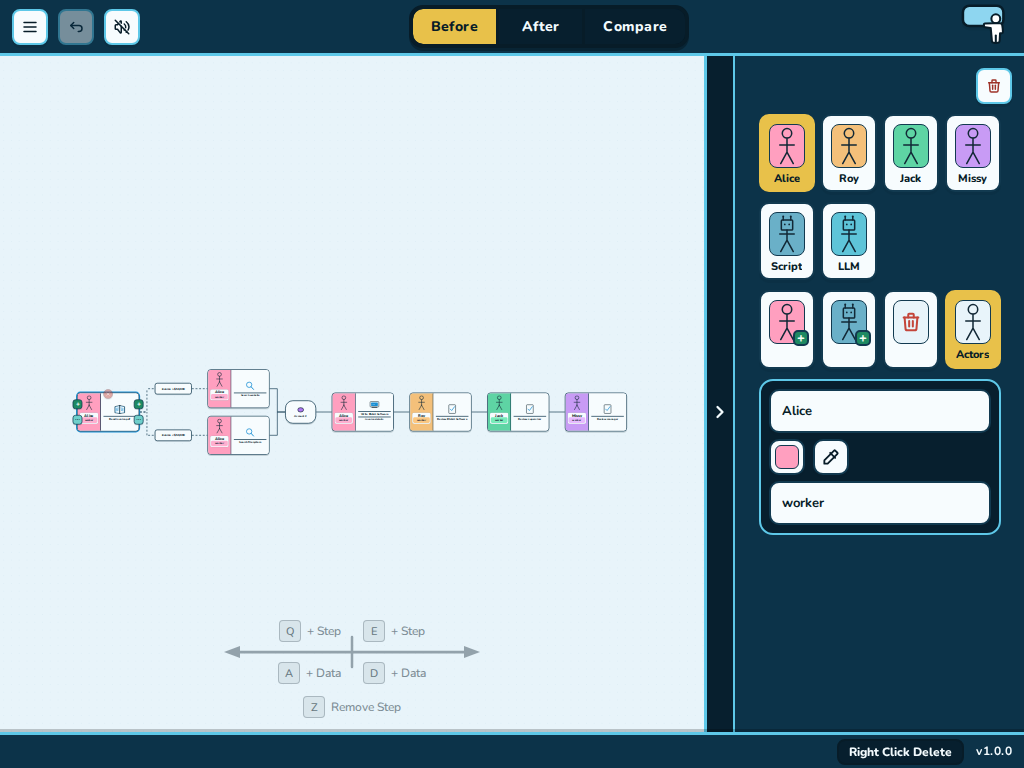
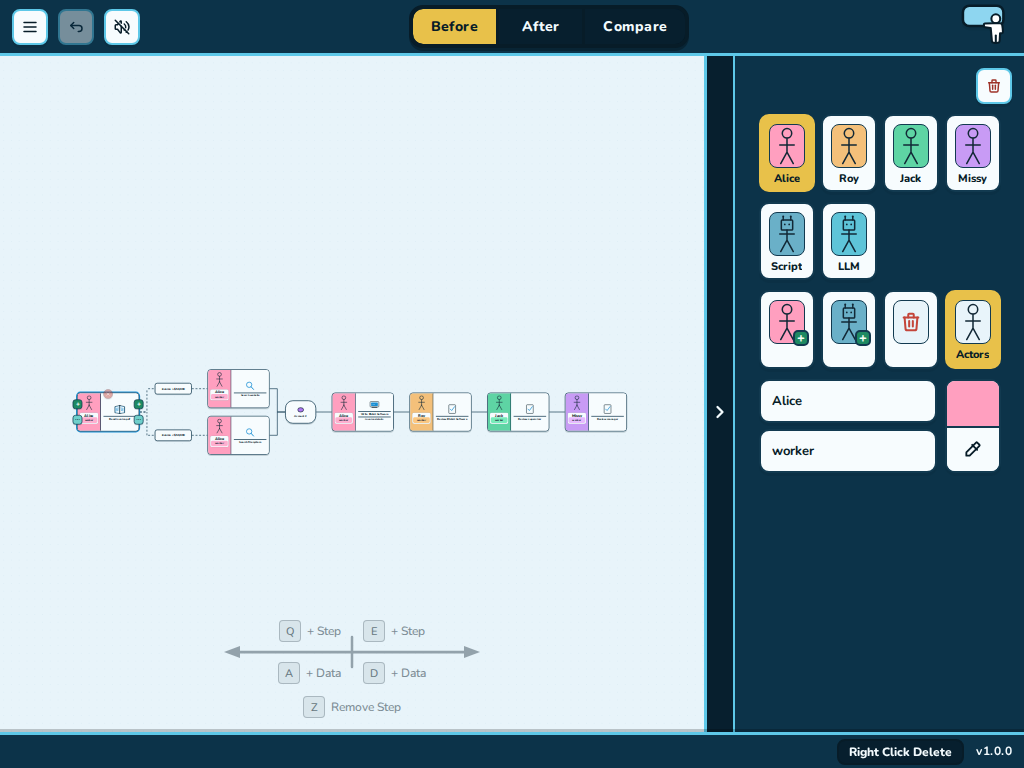
feat(improve-53): stack Name Role beside color card
Put Name over Role on the left and a tall fill/eyedropper card on the right, matching the sketch.

Changed region(s): [[0.7188, 0.4688, 1.0, 0.7188]]

diff --git a/src/app/styles/tokens.css b/src/app/styles/tokens.css
@@ -1525,9 +1525,7 @@ body.is-tile-dragging * {
 
 .inspector-actors:focus-visible,
 .inspector-actor-add:focus-visible,
-.inspector-actor-delete:focus-visible,
-.inspector-color-chip:focus-visible,
-.inspector-color-dropper:focus-visible {
+.inspector-actor-delete:focus-visible {
   outline: 3px solid var(--blue);
   outline-offset: 2px;
 }
@@ -1790,7 +1788,7 @@ body.is-tile-dragging * {
   gap: 10px;
 }
 
-.inspector-manage > .inspector-fields {
+.inspector-manage > .inspector-actor-edit {
   align-self: center;
 }
 
@@ -1833,44 +1831,73 @@ body.is-tile-dragging * {
   border-color: var(--minus);
 }
 
-.inspector-color-row {
+.inspector-actor-edit {
   display: flex;
-  align-items: center;
+  align-items: stretch;
   gap: 8px;
+  width: var(--inspector-cluster);
+  max-width: 100%;
+  margin-inline: auto;
 }
 
-.inspector-color-chip,
+.inspector-actor-edit-text {
+  flex: 1 1 auto;
+  min-width: 0;
+  display: flex;
+  flex-direction: column;
+  gap: 6px;
+}
+
+.inspector-color-card {
+  flex: 0 0 56px;
+  width: 56px;
+  display: flex;
+  flex-direction: column;
+  border: 2px solid var(--line);
+  border-radius: 10px;
+  background: var(--cream);
+  box-shadow: var(--chip-shadow);
+  overflow: hidden;
+  box-sizing: border-box;
+}
+
+.inspector-color-card > :first-child {
+  flex: 1 1 50%;
+  min-height: 0;
+  display: flex;
+}
+
+.inspector-color-fill,
 .inspector-color-dropper {
   display: flex;
   align-items: center;
   justify-content: center;
+  flex: 1 1 50%;
+  min-height: 28px;
+  width: 100%;
   margin: 0;
-  padding: 4px;
-  border: 2px solid var(--line);
-  border-radius: 10px;
-  background: var(--cream);
+  padding: 0;
+  border: none;
   color: var(--ink);
   cursor: pointer;
-  box-shadow: var(--chip-shadow);
   box-sizing: border-box;
 }
 
-.inspector-color-chip {
-  width: 36px;
-  height: 36px;
-}
-
-.inspector-color-chip-fill {
-  width: 100%;
-  height: 100%;
-  border-radius: 6px;
-  border: 1.5px solid var(--line);
+.inspector-color-fill {
+  background: transparent;
 }
 
 .inspector-color-dropper {
-  width: 36px;
-  height: 36px;
-  padding: 0;
+  background: var(--cream);
+  border-top: 2px solid var(--line);
+}
+
+.inspector-color-fill:focus-visible,
+.inspector-color-dropper:focus-visible {
+  outline: 3px solid var(--blue);
+  outline-offset: -3px;
+  position: relative;
+  z-index: 1;
 }
 
 .inspector-color-pop {

diff --git a/src/app/inspector/ManageActorsPanel.tsx b/src/app/inspector/ManageActorsPanel.tsx
@@ -84,28 +84,30 @@ export function ManageActorsPanel() {
         <ActorsButton />
       </div>
       {actor && !deleteMode ? (
-        <div className="inspector-fields">
-          <InspectorField
-            id="actor-name-field"
-            ariaLabel="Name"
-            value={actor.name}
-            onChange={(name) => useStore.getState().updateActor(actor.id, { name })}
-          />
+        <div className="inspector-actor-edit">
+          <div className="inspector-actor-edit-text">
+            <InspectorField
+              id="actor-name-field"
+              ariaLabel="Name"
+              value={actor.name}
+              onChange={(name) => useStore.getState().updateActor(actor.id, { name })}
+            />
+            <InspectorField
+              id="actor-role-field"
+              ariaLabel="Role"
+              value={
+                isHuman(actor)
+                  ? (actor.role ?? DEFAULT_HUMAN_ROLE)
+                  : isRobot(actor)
+                    ? actor.role
+                    : ""
+              }
+              onChange={(role) => useStore.getState().updateActor(actor.id, { role })}
+            />
+          </div>
           <ActorColorField
             value={actor.color}
             onChange={(color) => useStore.getState().updateActor(actor.id, { color })}
-          />
-          <InspectorField
-            id="actor-role-field"
-            ariaLabel="Role"
-            value={
-              isHuman(actor)
-                ? (actor.role ?? DEFAULT_HUMAN_ROLE)
-                : isRobot(actor)
-                  ? actor.role
-                  : ""
-            }
-            onChange={(role) => useStore.getState().updateActor(actor.id, { role })}
           />
         </div>
       ) : null}

diff --git a/e2e/improve-53-actors-chrome.spec.ts b/e2e/improve-53-actors-chrome.spec.ts
@@ -66,6 +66,14 @@ test.describe("Improvement 53 — Actors chrome under Who", () => {
     await expect(aside(page).getByLabel("Role")).toHaveValue("LLM");
     await expect(aside(page).getByRole("button", { name: "Color" })).toBeVisible();
     await expect(aside(page).getByRole("button", { name: "Eyedropper" })).toBeVisible();
+    const nameBox = await aside(page).getByLabel("Name").boundingBox();
+    const roleBox = await aside(page).getByLabel("Role").boundingBox();
+    const colorBox = await aside(page).getByRole("button", { name: "Color" }).boundingBox();
+    const dropBox = await aside(page).getByRole("button", { name: "Eyedropper" }).boundingBox();
+    expect(nameBox && roleBox && colorBox && dropBox).toBeTruthy();
+    expect(colorBox!.x).toBeGreaterThan(nameBox!.x + nameBox!.width - 2);
+    expect(dropBox!.y).toBeGreaterThan(colorBox!.y + 8);
+    expect(roleBox!.y).toBeGreaterThan(nameBox!.y + nameBox!.height - 2);
     await capturePage(page, `${EVIDENCE}/manage-editor-1440.png`);
 
     await aside(page).getByRole("button", { name: "Add human" }).click();

diff --git a/src/app/inspector/ActorColorField.tsx b/src/app/inspector/ActorColorField.tsx
@@ -1,5 +1,5 @@
 /**
- * Compact actor Color: a short cream swatch plus a separate eyedropper (NA-01).
+ * Compact actor Color: a tall card — fill on top, eyedropper below (NA-01).
  */
 import { useState } from "react";
 import { ColorPicker, Popover } from "@mantine/core";
@@ -32,7 +32,7 @@ export function ActorColorField({
   }
 
   return (
-    <div className="inspector-color-row">
+    <div className="inspector-color-card">
       <Popover
         opened={opened}
         onChange={setOpened}
@@ -44,12 +44,11 @@ export function ActorColorField({
         <Popover.Target>
           <button
             type="button"
-            className="inspector-color-chip"
+            className="inspector-color-fill"
             aria-label="Color"
             aria-expanded={opened}
-          >
-            <span className="inspector-color-chip-fill" style={{ background: value }} />
-          </button>
+            style={{ background: value }}
+          />
         </Popover.Target>
         <Popover.Dropdown className="inspector-color-pop">
           <ColorPicker

diff --git a/.docs/handoff.md b/.docs/handoff.md
@@ -2598,4 +2598,15 @@ Corrections in the same chat before the next slice starts get their own short en
 - Status: COMPLETE
 - Commit: `feat(improve-53): restyle Actors under Who`
 
+## Improvement 53 — correction 1 — 2026-09-09
+
+- Requested: Name / Role / Color should match the sketch — Name over Role on the left, one tall color card on the right (fill on top, eyedropper below).
+- Changed: Manage editor drops the outer well. `inspector-actor-edit` is Name + Role stacked, with `ActorColorField` as a 56px card (swatch opens the wheel; eyedropper samples). Tests assert Color sits to the right of Name and Eyedropper under Color.
+- Tests and exact results:
+  - `npm run build` — pass (Vite 8.2.2). Node 24.
+  - `npm run test:unit` — 41 files, 313 tests pass.
+  - `npm run test:e2e` — improve-53 (3), improve-52 (3), inspector (6), improve-40 (3), improve-41 (3) pass. 18 tracked actor specs.
+- Status: COMPLETE
+- Commit: `feat(improve-53): stack Name Role beside color card`
+
 

diff --git a/.docs/GOAL.md b/.docs/GOAL.md
@@ -264,3 +264,4 @@ Append only, newest last. Format: `- YYYY-MM-DD — <clause IDs> — <decision a
 - 2026-09-09 — NA-08 — Double-click Robot Type pie is removed. Double-click robot role edits Role. — approved by user
 - 2026-09-09 — WG-01 — A brand-new board contains zero Nodes and the default roster: Alice, Roy, Jack, Missy, plus three Robots named Robot (roles LLM, Script, Agent). — approved by user
 - 2026-09-09 — NA-05, NA-06 — Step inspector order is Type / Name / Details, then Who. The Actors control is a Who-key under the roster, bottom right (not a header pill). Manage add Human/Robot use the same Who keys with a plus; deletion is a trash delete-mode key. Color is a compact swatch plus a separate eyedropper. — approved by user
+- 2026-09-09 — NA-01, NA-06 — Manage actor editor is Name over Role on the left and a tall color card on the right (fill opens the wheel; eyedropper below). — approved by user

diff --git a/.docs/IMPROVEMENTS.md b/.docs/IMPROVEMENTS.md
@@ -1108,6 +1108,7 @@ Approved 2026-09-09 (correction of Improvement 52 chrome). Who returns to the bo
 - Manage ops row is four Who-keys: Add human, Add robot, trash delete-mode, Actors. Add keys use the same figures as the roster with a green plus badge and no name.
 - Delete mode: trash key toggles; actor cards get a red border and X; click deletes (unused-only NA-02); Escape exits delete mode first.
 - Color is a 36px cream swatch that opens the 14-swatch wheel, plus a separate eyedropper (EyeDropper API; falls back to the wheel). Role stays one-line in the same Name/Details well.
+- Correction 1 (2026-09-09): Name over Role on the left; one tall card on the right (color fill / eyedropper). No outer well.
 - No new runtime dependency.
 
 ## Contract

diff --git a/.docs/VISUAL_IMPROVEMENTS.md b/.docs/VISUAL_IMPROVEMENTS.md
@@ -354,3 +354,10 @@ Newest last. Issue and resolution stay short. No after-screenshots for gestures.
   ![cramped add](.docs/visual-improvements/2026-09-09-actors-add-cramped.png)
   ![ugly manage](.docs/visual-improvements/2026-09-09-actors-manage-ugly.png)
 
+## 2026-09-09 — Name / Role beside color card
+
+- Issue: Manage Name, Color, and Role were stacked in a well: a full-width name, a tiny swatch + eyedropper, then role.
+- Resolution: Shipped in Improvement 53 correction — Name over Role on the left; one tall card on the right with color fill on top and eyedropper below.
+- Attachments:
+  ![actor edit name role color](.docs/visual-improvements/2026-09-09-actor-edit-name-role-color.png)
+
